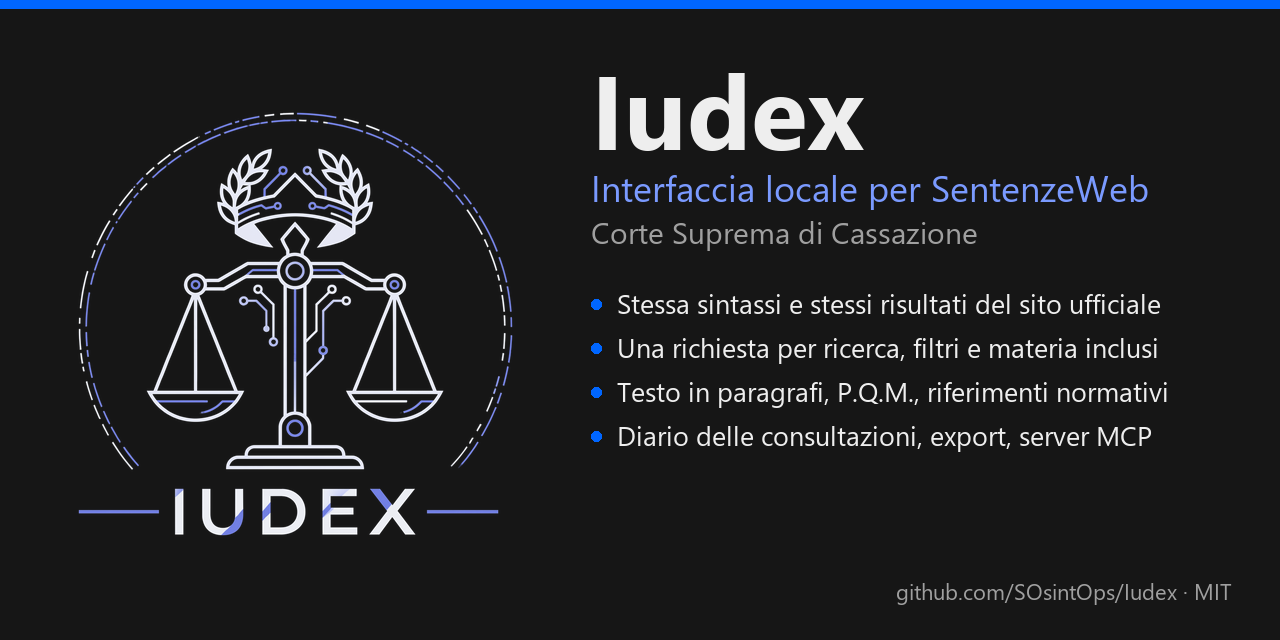
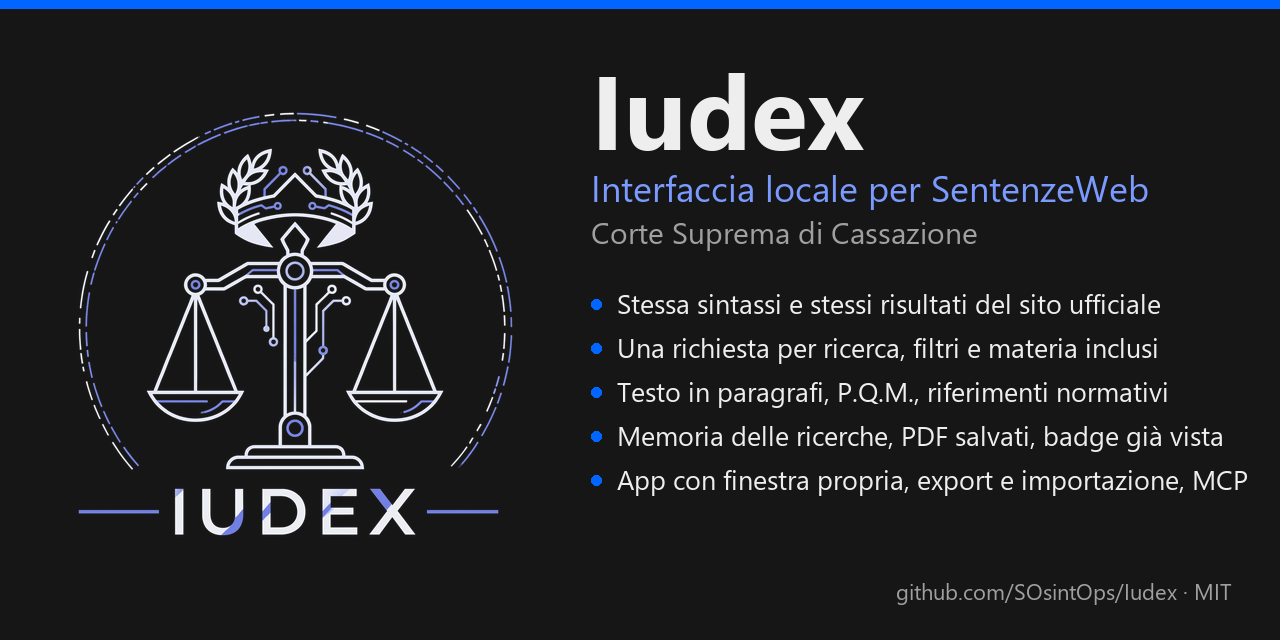
Schermate 0.8.0: risultati, badge già vista, pannello di lettura, tema scuro, cronologia, diario, impostazioni, domande frequenti; anteprima social
Fatte dalla finestra di Iudex 0.8.0 con un archivio di prova separato, senza nomi delle parti (niente testo né PDF delle sentenze) né percorsi con il nome dell'utente. Ridimensionate a 1484 px come le precedenti; README con le didascalie nuove; anteprima social rigenerata con le funzioni della 0.8.

Changed region(s): [[0.4688, 0.6562, 0.9688, 0.7812]]

diff --git a/assets/logo/genera_anteprima.py b/assets/logo/genera_anteprima.py
@@ -68,7 +68,8 @@ def main() -> None:
         "Stessa sintassi e stessi risultati del sito ufficiale",
         "Una richiesta per ricerca, filtri e materia inclusi",
         "Testo in paragrafi, P.Q.M., riferimenti normativi",
-        "Diario delle consultazioni, export, server MCP",
+        "Memoria delle ricerche, PDF salvati, badge già vista",
+        "App con finestra propria, export e importazione, MCP",
     ]
     corpo = font("segoeui.ttf", 27)
     y += 70

diff --git a/README.md b/README.md
@@ -18,7 +18,7 @@ leggere e confrontare e con una memoria permanente di ciò che hai cercato e con
 ricerche, sentenze uscite da ciascuna, testi e PDF aperti, esportabili e importabili su un
 altro computer.
 
-![Iudex: risultati in vista compatta con il filtro "Civile" attivo, i segnali di orientamento e i filtri con i conteggi](docs/immagini/risultati.png)
+![Iudex 0.8: risultati in vista compatta con il filtro "Civile" attivo, i segnali di orientamento e i filtri con i conteggi](docs/immagini/risultati.png)
 
 ## Che cosa fa
 
@@ -62,24 +62,45 @@ altro computer.
 
 ## Schermate
 
+Il badge **già vista** segna le sentenze già consultate; al passaggio del mouse dice quando,
+da quale ricerca sono state aperte e in quali ricerche sono uscite.
+
+![Iudex: badge "già vista" su una sentenza dei risultati, con il riquadro che indica l'ultima consultazione, la ricerca da cui è stata aperta e le ricerche in cui è uscita](docs/immagini/gia-vista.png)
+
+Nel pannello di lettura, sopra il testo, quante volte hai aperto la sentenza, da quali
+ricerche e in quante ricerche è uscita fra i risultati.
+
+![Iudex: intestazione del pannello di lettura con prima apertura, ricerca di provenienza e ricerche in cui la sentenza è uscita](docs/immagini/lettura.png)
+
 Vista compatta con il tema scuro, che si attiva da solo la sera: solo estremi, date,
 presidente, relatore ed ECLI; a sinistra i segnali di orientamento (qui il filtro
 «Orientamento consolidato» attivo) e i filtri con le barre proporzionali.
 
 ![Iudex: tema scuro, righe compatte, filtro sui provvedimenti che richiamano un orientamento consolidato](docs/immagini/tema-scuro.png)
 
+La Cronologia conserva ogni ricerca per sempre ed esporta lo storico in CSV per Excel, JSONL o
+un pacchetto ZIP con i PDF, che si importa in un altro Iudex.
+
+![Iudex: scheda Cronologia con le ricerche fatte e i pulsanti di esportazione dello storico](docs/immagini/cronologia.png)
+
 Il Diario conserva, giorno per giorno, le ricerche e le sentenze aperte da ciascuna, con il
 testo; da qui si esporta in JSONL, CSV, zip o FollowTheMoney.
 
-![Iudex: scheda Diario con le ricerche di un giorno e le sentenze aperte da ciascuna](docs/immagini/diario.png)
+![Iudex: scheda Diario con le ricerche di un giorno e la sentenza aperta da una di esse](docs/immagini/diario.png)
+
+Le Impostazioni decidono se conservare lo storico, dove salvare e aprire i PDF, quale impronta
+del browser dichiarare alla Corte, gli orari del tema scuro e il nome del computer.
+
+![Iudex: scheda Impostazioni con storico, cartella dei PDF e impronta del browser](docs/immagini/impostazioni.png)
 
 Le pagine informative integrate (domande frequenti, versioni, software simili) usano lo
 stesso stile e sono raggiungibili dal menu Help della barra di navigazione.
 
 ![Iudex: pagina delle domande frequenti](docs/immagini/domande-frequenti.png)
 
-Le schermate mostrano ricerche reali; per rispetto delle persone citate nei provvedimenti
-sono state scelte viste senza nomi delle parti.
+Le schermate mostrano ricerche reali, fatte dalla finestra di Iudex 0.8 con un archivio di
+prova; per rispetto delle persone citate nei provvedimenti sono state scelte viste senza nomi
+delle parti.
 
 ## Come interroga il sito (e perché è più leggero del sito stesso)
 
